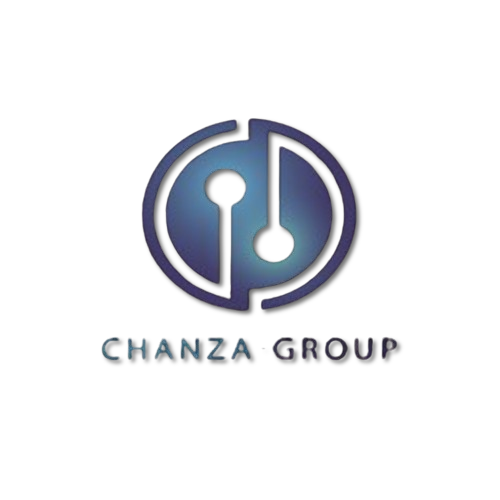
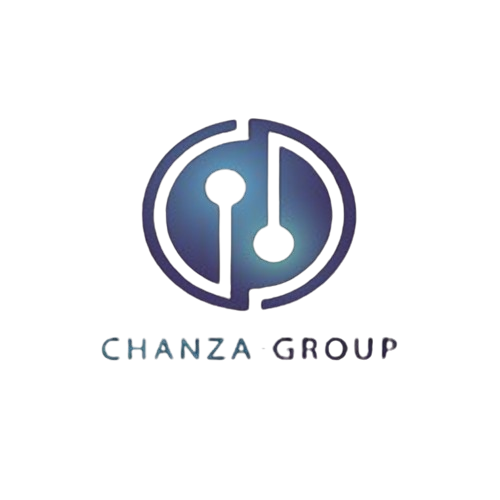
sas

diff --git a/chanza.css b/chanza.css
@@ -724,7 +724,7 @@ ui li span{
     width: 230px; /* Set width to 80px */
     height: 230px; /* Set height to 80px */
     object-fit: cover; /* Ensure the image covers the area without distortion */
-    filter: brightness(20.8) hue-rotate(210deg); /* Adjust brightness and hue */
+    filter: brightness(1.9) hue-rotate(0deg); /* Adjust brightness and hue */
     transition: filter 0.3s ease; /* Smooth transition for hover effect */
     opacity: 1;
 }
